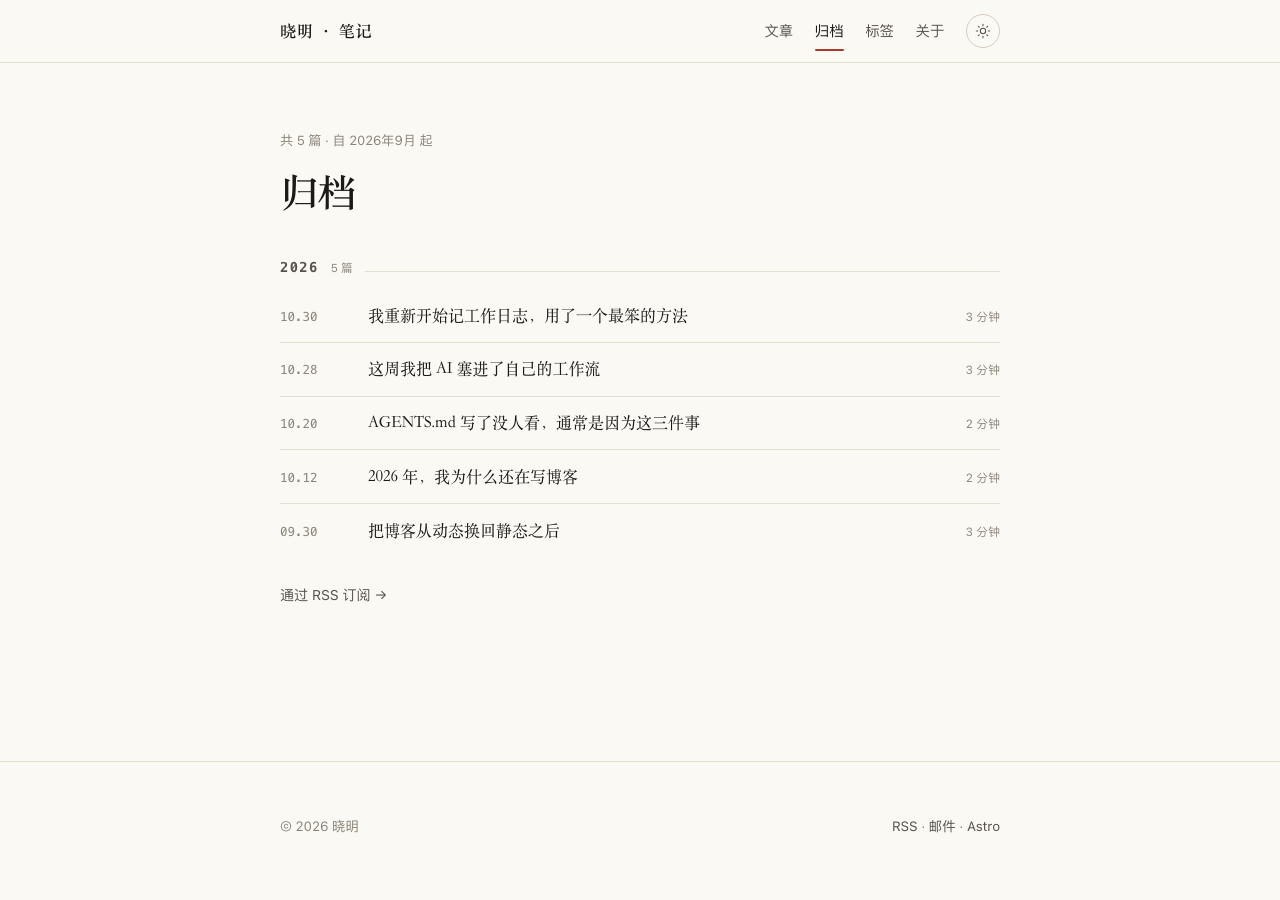
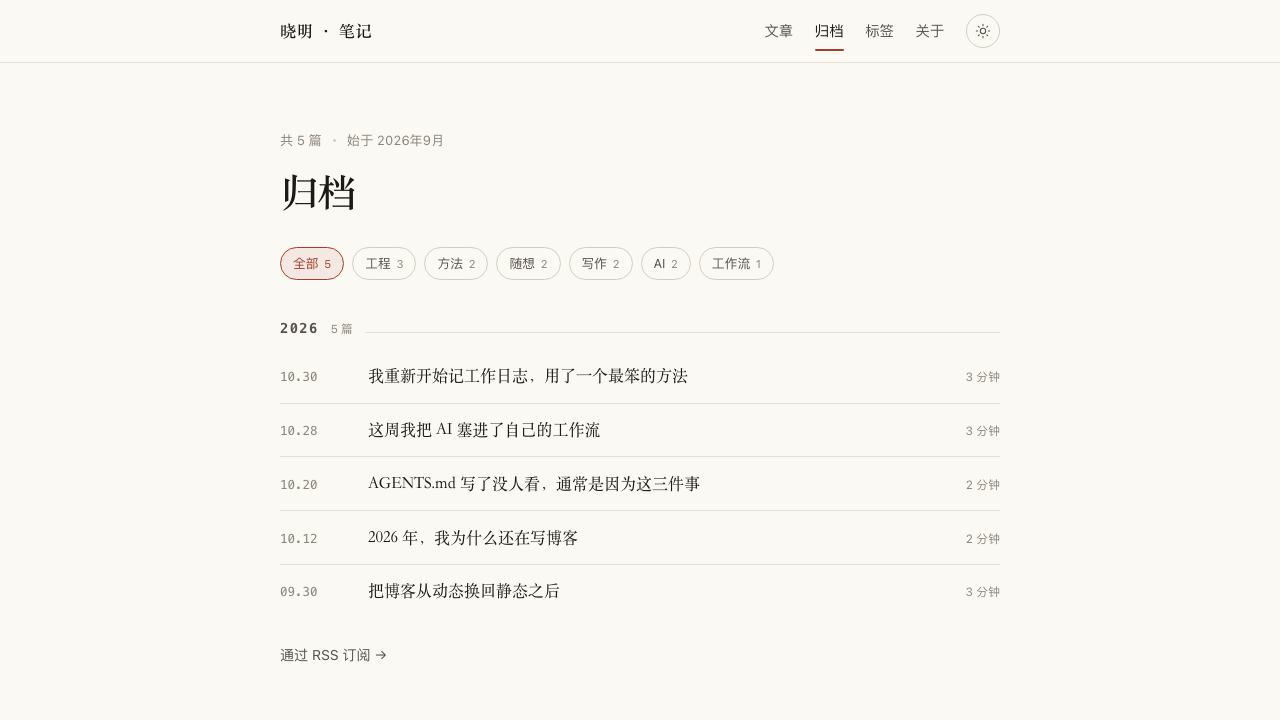
feat(archive): 归档页支持按标签筛选，首页增加归档入口
- 标签筛选按钮（全部 + 各标签计数），无刷新切换
- 筛选状态写入 ?tag= 查询参数，可分享/收藏
- 年份计数随筛选更新，空年份自动隐藏
- 无 JS 时降级为显示全部，并提供标签页链接
- 首页底部新增「归档」卡片入口

diff --git a/src/styles/global.css b/src/styles/global.css
@@ -940,3 +940,112 @@ a {
 		font-size: 0.84rem;
 	}
 }
+
+/* ── 归档页筛选 ───────────────────────────────────────────── */
+
+.archive-filter {
+	display: flex;
+	flex-wrap: wrap;
+	gap: 0.5rem;
+	margin: -0.5rem 0 2.25rem;
+}
+
+.archive-filter__button {
+	display: inline-flex;
+	align-items: center;
+	gap: 0.35rem;
+	padding: 0.28rem 0.75rem;
+	border: 1px solid var(--line-strong);
+	border-radius: 999px;
+	background: transparent;
+	color: var(--ink-2);
+	font-family: inherit;
+	font-size: 0.8rem;
+	line-height: 1.7;
+	cursor: pointer;
+	transition: color 0.15s ease, border-color 0.15s ease, background-color 0.15s ease;
+}
+
+.archive-filter__button:hover {
+	color: var(--accent);
+	border-color: var(--accent);
+}
+
+.archive-filter__button.is-active {
+	color: var(--accent);
+	border-color: var(--accent);
+	background: var(--accent-soft);
+}
+
+.archive-filter__count {
+	font-size: 0.7rem;
+	color: var(--ink-3);
+}
+
+.archive-filter__button.is-active .archive-filter__count {
+	color: var(--accent);
+}
+
+.archive-item[hidden],
+.archive-year[hidden] {
+	display: none;
+}
+
+.archive-hint {
+	margin: -1rem 0 2rem;
+	font-size: 0.82rem;
+	color: var(--ink-3);
+}
+
+/* ── 首页底部入口 ─────────────────────────────────────────── */
+
+.home-entry {
+	display: flex;
+	align-items: baseline;
+	gap: 1rem;
+	padding: 1.1rem 1.25rem;
+	border: 1px solid var(--line);
+	border-radius: 12px;
+	color: var(--ink);
+	text-decoration: none;
+	transition: border-color 0.15s ease, background-color 0.15s ease;
+}
+
+.home-entry:hover {
+	border-color: var(--accent);
+	background: var(--bg-soft);
+}
+
+.home-entry__label {
+	font-family: var(--font-serif);
+	font-size: 1.05rem;
+	font-weight: 600;
+}
+
+.home-entry__desc {
+	font-size: 0.85rem;
+	color: var(--ink-3);
+}
+
+.home-entry__arrow {
+	margin-left: auto;
+	color: var(--ink-3);
+	transition: color 0.15s ease, transform 0.15s ease;
+}
+
+.home-entry:hover .home-entry__arrow {
+	color: var(--accent);
+	transform: translateX(3px);
+}
+
+@media (max-width: 480px) {
+	.home-entry {
+		flex-wrap: wrap;
+		gap: 0.25rem 0.75rem;
+		padding: 1rem;
+	}
+
+	.home-entry__desc {
+		font-size: 0.8rem;
+	}
+}

diff --git a/README.md b/README.md
@@ -4,7 +4,7 @@
 
 - 浅色 / 深色主题，跟随系统，无闪烁
 - 中文排版优化（宋体标题 + 系统无衬线正文）
-- 文章目录、归档时间线、标签、RSS、Sitemap、404
+- 文章目录、归档时间线（可按标签筛选）、标签、RSS、Sitemap、404
 - 构建产物自检：断链、SEO 基础项、RSS
 
 ## 预览
